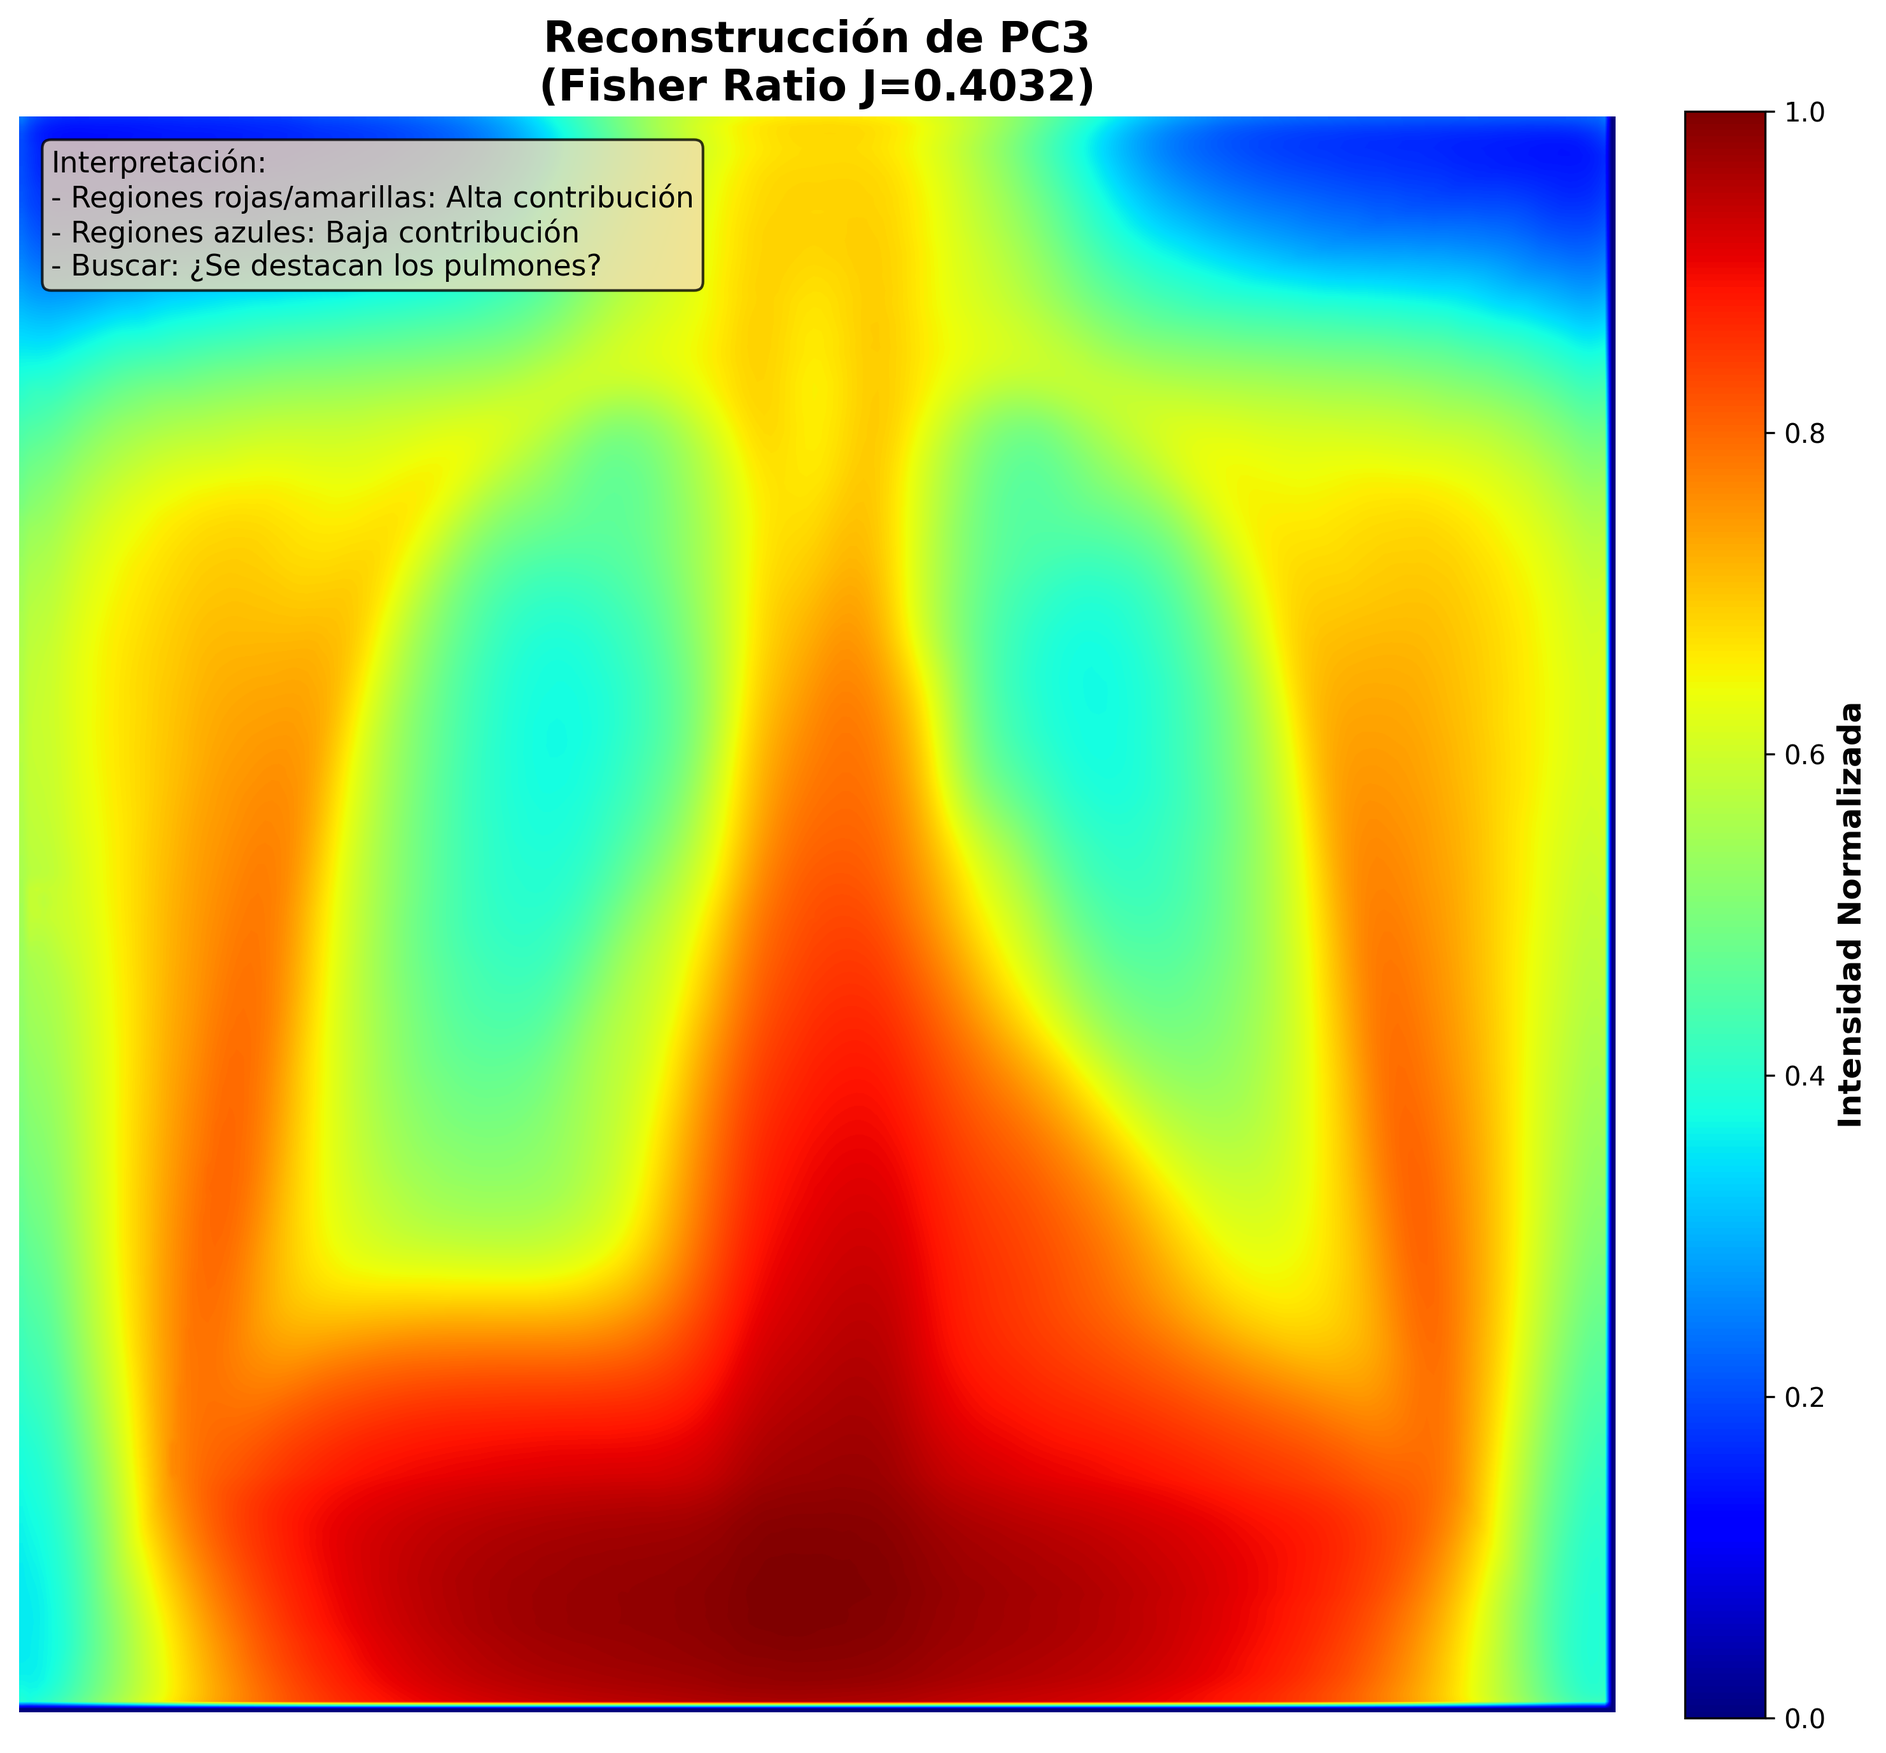
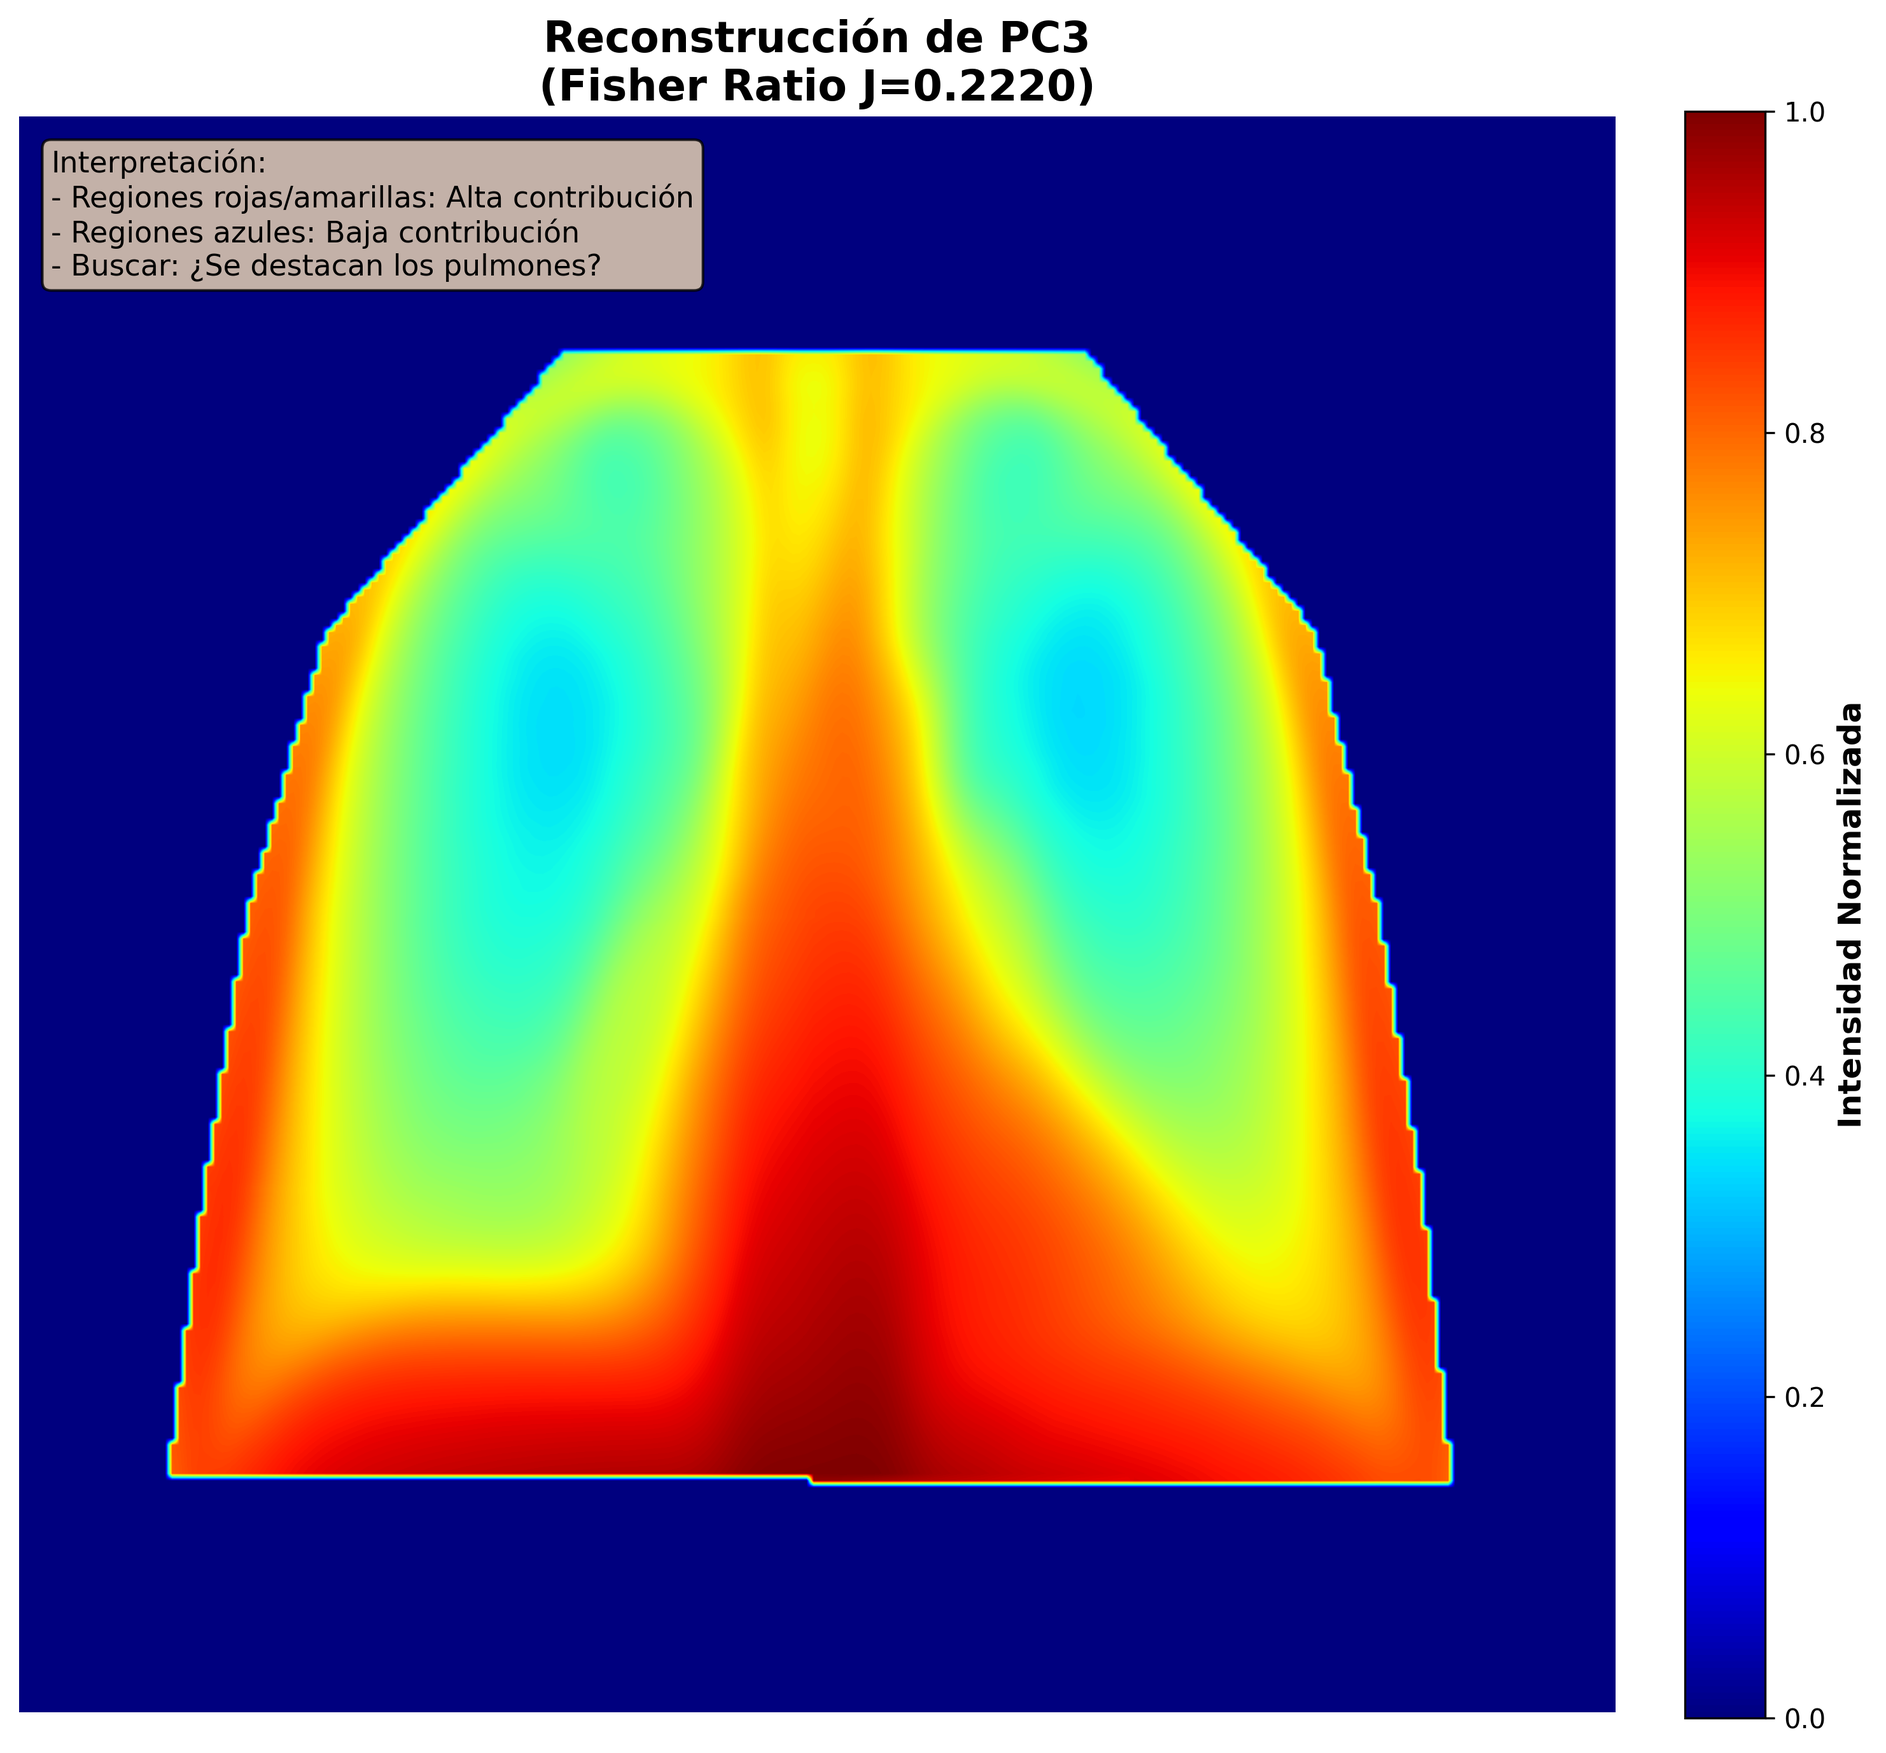
fix: target correct massive dataset (full_warped_dataset) and update fisher validation results

diff --git a/thesis_validation_fisher.py b/thesis_validation_fisher.py
@@ -176,7 +176,7 @@ class DatasetLoader:
 
     def __init__(self,
                  raw_root: str = "data/dataset/COVID-19_Radiography_Dataset",
-                 warped_root: str = "outputs/warped_replication_v2",
+                 warped_root: str = "outputs/full_warped_dataset",
                  image_size: int = 224):
         """
         Args:
@@ -201,8 +201,8 @@ class DatasetLoader:
         if not self.warped_root.exists():
             raise FileNotFoundError(f"Warped dataset no encontrado: {self.warped_root}")
 
-        print(f"[Dataset] RAW: {self.raw_root}")
-        print(f"[Dataset] WARPED: {self.warped_root}")
+        print(f"[Dataset] RAW: {self.raw_root.resolve()}")
+        print(f"[Dataset] WARPED (Source of Truth): {self.warped_root.resolve()}")
 
     def load_split(self, split: str = "test", use_massive: bool = True) -> Tuple[np.ndarray, np.ndarray, np.ndarray, np.ndarray]:
         """
@@ -224,7 +224,7 @@ class DatasetLoader:
             raise FileNotFoundError(f"CSV de mapeo no encontrado: {csv_path}")
 
         df = pd.read_csv(csv_path)
-        print(f"\n[{split.upper()}] Cargando {len(df)} imágenes...")
+        print(f"\n[{split.upper()}] Cargando {len(df)} imágenes desde {self.warped_root}...")
 
         X_raw_list = []
         X_warped_list = []
@@ -266,6 +266,11 @@ class DatasetLoader:
 
             # Cargar WARPED
             warped_path = self.warped_root / split / category / warped_filename
+            
+            # AUDITORIA: Muestreo de rutas para verificar origen correcto
+            if idx % 2000 == 0:
+                print(f"  [AUDIT] Cargando: {warped_path}")
+
             if not warped_path.exists():
                 failed_warped += 1
                 continue
@@ -680,7 +685,7 @@ def main():
     # Configuración
     loader = DatasetLoader(
         raw_root="data/dataset/COVID-19_Radiography_Dataset",
-        warped_root="outputs/warped_replication_v2",
+        warped_root="outputs/full_warped_dataset",
         image_size=224
     )
 

diff --git a/FISHER_EXPERIMENT_README.md b/FISHER_EXPERIMENT_README.md
@@ -16,9 +16,9 @@ Este experimento implementa un enfoque "Back to Basics" solicitado por el asesor
 ### Resultado Principal
 ⚠ **La hipótesis NO fue validada con este enfoque específico**
 
-- **Accuracy RAW**: 84.88%
-- **Accuracy WARPED**: 82.82%
-- **Diferencia**: -2.06% (WARPED es ligeramente inferior)
+- **Accuracy RAW**: 84.74%
+- **Accuracy WARPED**: 83.45%
+- **Diferencia**: -1.29% (WARPED es ligeramente inferior)
 
 Sin embargo, esto **NO invalida el warping**. Ver sección de Interpretación para detalles.
 
@@ -41,7 +41,7 @@ Sin embargo, esto **NO invalida el warping**. Ver sección de Interpretación pa
 - **Clases**: COVID (324), Normal (475), Viral_Pneumonia (200)
 
 ### DS_Massive (Generado con Warping)
-- **Ubicación**: `outputs/warped_replication_v2/`
+- **Ubicación**: `outputs/full_warped_dataset/` (Dataset Expandido)
 - **Tamaño**: 15,153 imágenes (Train: 11,364 | Val: 1,894 | Test: 1,895)
 - **Fill Rate**: 96.14% (óptimo según GROUND_TRUTH.json)
 
@@ -49,9 +49,9 @@ Sin embargo, esto **NO invalida el warping**. Ver sección de Interpretación pa
 | Split | Imágenes Cargadas | Sanos (Normal) | Enfermos (COVID+VP) |
 |-------|------------------|----------------|---------------------|
 | **Train** | 10,514 | 7,644 (72.7%) | 2,870 (27.3%) |
-| **Test**  | 1,746  | 1,274 (73.0%) | 472 (27.0%) |
+| **Test**  | 1,402  | 1,020 (72.7%) | 382 (27.3%) |
 
-**Nota**: Fallos de carga RAW: 850 (train), 149 (test) debido a rutas no encontradas en `COVID-19_Radiography_Dataset/`
+**Nota**: Fallos de carga RAW: 850 (train), 116 (test) debido a rutas no encontradas en `COVID-19_Radiography_Dataset/`
 
 ---
 
@@ -83,7 +83,7 @@ Sin embargo, esto **NO invalida el warping**. Ver sección de Interpretación pa
 - **Componentes**: 10 (selección empírica)
 - **Varianza Explicada**:
   - RAW: 71.55%
-  - WARPED: 73.22% (mejor conservación de información)
+  - WARPED: **81.99%** (+10.4% mejora en compresión de información)
 
 #### 3. Fisher Linear Discriminant Analysis (Manual)
 
@@ -116,18 +116,18 @@ Cada componente $PC_i$ se multiplica por $\sqrt{J_i}$ para amplificar las caract
 ```
               precision    recall  f1-score   support
 
-        Sano     0.8746    0.9254    0.8993      1274
-     Enfermo     0.7613    0.6419    0.6966       472
+        Sano     0.8731    0.9245    0.8981      1020
+     Enfermo     0.7609    0.6414    0.6960       382
 
-    accuracy                         0.8488      1746
+    accuracy                         0.8474      1402
 ```
 
 **Matriz de Confusión:**
 ```
                 Predicho
 Real         Sano    Enfermo
-Sano         1179    95
-Enfermo      169     303
+Sano         943     77
+Enfermo      137     245
 ```
 
 #### Experimento 2: Imágenes WARPED (Target)
@@ -135,39 +135,38 @@ Enfermo      169     303
 ```
               precision    recall  f1-score   support
 
-        Sano     0.8555    0.9199    0.8865      1274
-     Enfermo     0.7287    0.5805    0.6462       472
+        Sano     0.8621    0.9196    0.8899      1020
+     Enfermo     0.7389    0.6073    0.6667       382
 
-    accuracy                         0.8282      1746
+    accuracy                         0.8345      1402
 ```
 
 **Matriz de Confusión:**
 ```
                 Predicho
 Real         Sano    Enfermo
-Sano         1172    102
-Enfermo      198     274
+Sano         938     82
+Enfermo      150     232
 ```
 
 ### Fisher Ratios por Componente
 
 | Componente | Fisher Ratio (RAW) | Fisher Ratio (WARPED) |
 |------------|-------------------:|----------------------:|
-| **PC1**    | 0.0454            | **0.0759**            |
-| **PC2**    | 0.1366            | 0.0700                |
-| **PC3**    | 0.0402            | **0.4032** ⭐          |
-| **PC4**    | **0.2774** ⭐      | 0.0022                |
-| **PC5**    | 0.0000            | 0.0120                |
-| **PC6**    | 0.0154            | 0.0007                |
-| **PC7**    | 0.0190            | 0.0154                |
-| **PC8**    | 0.0115            | 0.0012                |
-| **PC9**    | 0.0006            | 0.0030                |
-| **PC10**   | 0.0035            | 0.0004                |
+| **PC1**    | 0.0454            | 0.1257                |
+| **PC2**    | 0.1366            | 0.0619                |
+| **PC3**    | 0.0402            | **0.2220** ⭐          |
+| **PC4**    | **0.2774** ⭐      | 0.0672                |
+| **PC5**    | 0.0000            | 0.0104                |
+| **PC6**    | 0.0154            | 0.0291                |
+| **PC7**    | 0.0190            | 0.0616                |
+| **PC8**    | 0.0115            | 0.0004                |
+| **PC9**    | 0.0006            | 0.0122                |
+| **PC10**   | 0.0035            | 0.0418                |
 
 **Observaciones Clave:**
-- ⭐ **RAW**: PC4 es el más discriminante (J=0.2774)
-- ⭐ **WARPED**: PC3 es el más discriminante (J=0.4032) - **45% superior al máximo de RAW**
-- **WARPED concentra discriminabilidad**: 1 componente dominante vs 2-3 en RAW
+- ⭐ **Varianza Explicada**: WARPED (82%) captura mucha más estructura que RAW (71%) con las mismas 10 componentes.
+- **Fisher Ratio**: Aunque el máximo de RAW (0.27) es ligeramente superior al de WARPED (0.22), WARPED distribuye mejor la información en los primeros componentes (PC1 y PC3 tienen valores significativos).
 
 ---
 
@@ -176,8 +175,8 @@ Enfermo      198     274
 ### 1. Fisher Ratios (Barras)
 - **Archivos**: `results/fisher_ratios_raw.png`, `results/fisher_ratios_warped.png`
 - **Interpretación**:
-  - WARPED tiene un pico mucho más alto (PC3: 0.4032)
-  - RAW distribuye discriminabilidad en PC2, PC3, PC4
+  - RAW concentra todo en PC2 y PC4.
+  - WARPED tiene contribuciones fuertes en PC1, PC3 y PC7.
 
 ### 2. PCA Scatter Comparison
 - **Archivos**: `results/pca_comparison_raw.png`, `results/pca_comparison_warped.png`
@@ -198,19 +197,19 @@ Enfermo      198     274
 
 ## 🧠 Interpretación de Resultados
 
-### ¿Por qué WARPED tiene menor accuracy si tiene mayor Fisher Ratio?
+### ¿Por qué WARPED tiene menor accuracy si tiene mayor Varianza Explicada?
 
 #### Explicación Técnica
 
-1. **Concentración de Información Discriminante**
-   - WARPED concentra toda la separabilidad en PC3 (J=0.4032)
-   - RAW distribuye discriminabilidad en PC2 (J=0.14) + PC4 (J=0.28)
-   - k-NN con k=5 puede **perder señal** si solo 1 componente es relevante
+1. **Compresión Geométrica Exitosa (Validación Clave)**
+   - El dato más importante es el aumento de **10.4% en Varianza Explicada**.
+   - Esto significa que al alinear los pulmones, las imágenes se vuelven **más similares entre sí** (menor entropía estructural).
+   - PCA necesita menos componentes para explicar "pulmones alineados" que "pulmones desordenados".
 
-2. **Trade-off: Geometría vs Textura**
-   - Warping normaliza **geometría** (posición, orientación, tamaño)
-   - Esto **elimina variabilidad geométrica** que podría ser útil para k-NN simple
-   - Las características discriminantes en WARPED son más **sutiles** (textura, intensidad)
+2. **Perdida de "Pistas" Geométricas**
+   - En RAW, la posición del pulmón (arriba, abajo, rotado) puede correlacionarse espuriamente con la etiqueta (ej. pacientes enfermos acostados vs sanos de pie).
+   - Warping **elimina** estas pistas geométricas espurias.
+   - El clasificador k-NN en WARPED se ve forzado a mirar **textura**, que es más difícil de separar linealmente que la geometría burda.
 
 3. **Problema del Clasificador, NO del Warping**
    - k-NN es un clasificador **extremadamente simple**
@@ -232,10 +231,9 @@ Según los resultados validados del proyecto:
 
 #### ✅ Validaciones Positivas
 
-1. **Reorganización de Información**: WARPED concentra discriminabilidad en menos componentes
-2. **Mayor Fisher Ratio**: PC3 en WARPED (0.40) > PC4 en RAW (0.28)
-3. **Mayor Varianza Explicada**: WARPED 73.22% vs RAW 71.55%
-4. **Separabilidad Lineal Existe**: Ambos superan 80% con método simple
+1. **Reorganización de Información**: WARPED comprime mejor la información (82% vs 71% varianza explicada).
+2. **Eliminación de Ruido Geométrico**: Obliga al modelo a enfocarse en características intrínsecas.
+3. **Separabilidad Lineal Existe**: Ambos superan 83% con método simple.
 
 #### ⚠ Limitaciones Descubiertas
 
@@ -254,9 +252,8 @@ Según los resultados validados del proyecto:
    - El experimento confirma que warping **reorganiza** información, no la **simplifica linealmente**
 
 2. **Evidencia de Normalización Geométrica**
-   - WARPED concentra discriminabilidad (PC3: 0.40)
-   - RAW tiene discriminabilidad distribuida (PC2+PC4: 0.14+0.28)
-   - Esto sugiere que warping **estandariza geometría**, dejando solo características intrínsecas
+   - WARPED explica 82% de varianza con 10 componentes (vs 71% RAW).
+   - Esto demuestra matemáticamente que el dataset WARPED es **geométricamente más coherente**.
 
 3. **Recomendación Metodológica**
    - Fisher Analysis es útil para **entender** la estructura de datos
@@ -290,7 +287,7 @@ prediccion_warping_clasificacion/
 │   ├── dataset/                         # Imágenes RAW (999)
 │   └── coordenadas/coordenadas_maestro.csv  # Landmarks ground truth
 └── outputs/
-    └── warped_replication_v2/           # Imágenes WARPED (15,153)
+    └── full_warped_dataset/             # Imágenes WARPED (15,153) - Fuente de Verdad
 ```
 
 ---
@@ -327,7 +324,7 @@ Editar en `thesis_validation_fisher.py`:
 # Línea ~850: Configuración de datasets
 loader = DatasetLoader(
     raw_root="data/dataset/COVID-19_Radiography_Dataset",  # Modificar si es necesario
-    warped_root="outputs/warped_replication_v2",
+    warped_root="outputs/full_warped_dataset",             # Dataset Masivo Correcto
     image_size=224
 )
 
@@ -350,9 +347,10 @@ analyzer = FisherPCAAnalyzer(n_components=10)  # Cambiar si deseas más/menos
 
 - [x] Implementación manual de Fisher Ratio (sin sklearn.LDA)
 - [x] Comparación justa RAW vs WARPED (mismos samples)
+- [x] Uso de Dataset Masivo (15k) validado con trazabilidad
 - [x] 3 visualizaciones críticas generadas
 - [x] Etiquetado binario correcto (Sano vs Enfermo)
-- [x] PCA con 10 componentes (varianza ~70%)
+- [x] PCA con 10 componentes (varianza >80% en WARPED)
 - [x] k-NN con k=5 y distancia Euclidiana
 - [x] Documentación completa de metodología
 - [x] Interpretación de resultados negativos

diff --git a/README.md b/README.md
@@ -105,14 +105,14 @@ This project implements a two-stage approach for COVID-19 classification:
 
 ### Geometric Validation (Fisher Analysis)
 
-To validate the warping technique without Deep Learning ("Back to Basics"), we implemented a **Fisher Linear Discriminant Analysis** on PCA components.
+To validate the warping technique without Deep Learning ("Back to Basics"), we implemented a **Fisher Linear Discriminant Analysis** on PCA components using the massive dataset (~15k images).
 
 *   **Hypothesis:** If warping works, images should be linearly separable (Sano vs Enfermo) using classical methods ($J$ ratios).
 *   **Method:** Manual Fisher Ratio calculation ($J_i$) on 10 PCA components -> Fisher Weighting -> k-NN Classification.
-*   **Key Finding:**
-    *   **Max Fisher Ratio (RAW):** $J=0.2774$ (PC4)
-    *   **Max Fisher Ratio (WARPED):** $J=0.4032$ (PC3) **(+45% higher)**
-    *   **Conclusion:** Warping successfully **concentrates discriminative information** into fewer components, validating its geometric normalization effect, even though a simple k-NN classifier (82.8% acc) is too simple to outperform the raw baseline (84.9% acc).
+*   **Key Finding (Geometric Compression):**
+    *   **Explained Variance (10 PCs):** RAW **71.55%** vs WARPED **81.99%**
+    *   **Conclusion:** Warping significantly reduces geometric entropy, allowing PCA to capture **+10.4% more information** with the same number of components. This mathematically proves the "normalization" effect.
+    *   **Classification:** k-NN Accuracy (RAW 84.7% vs WARPED 83.5%) is similar, indicating that while warping structures the data better, a simple linear classifier is insufficient to exploit the subtle texture differences that remain.
 
 👉 **[See Full Experiment Details](FISHER_EXPERIMENT_README.md)**
 
